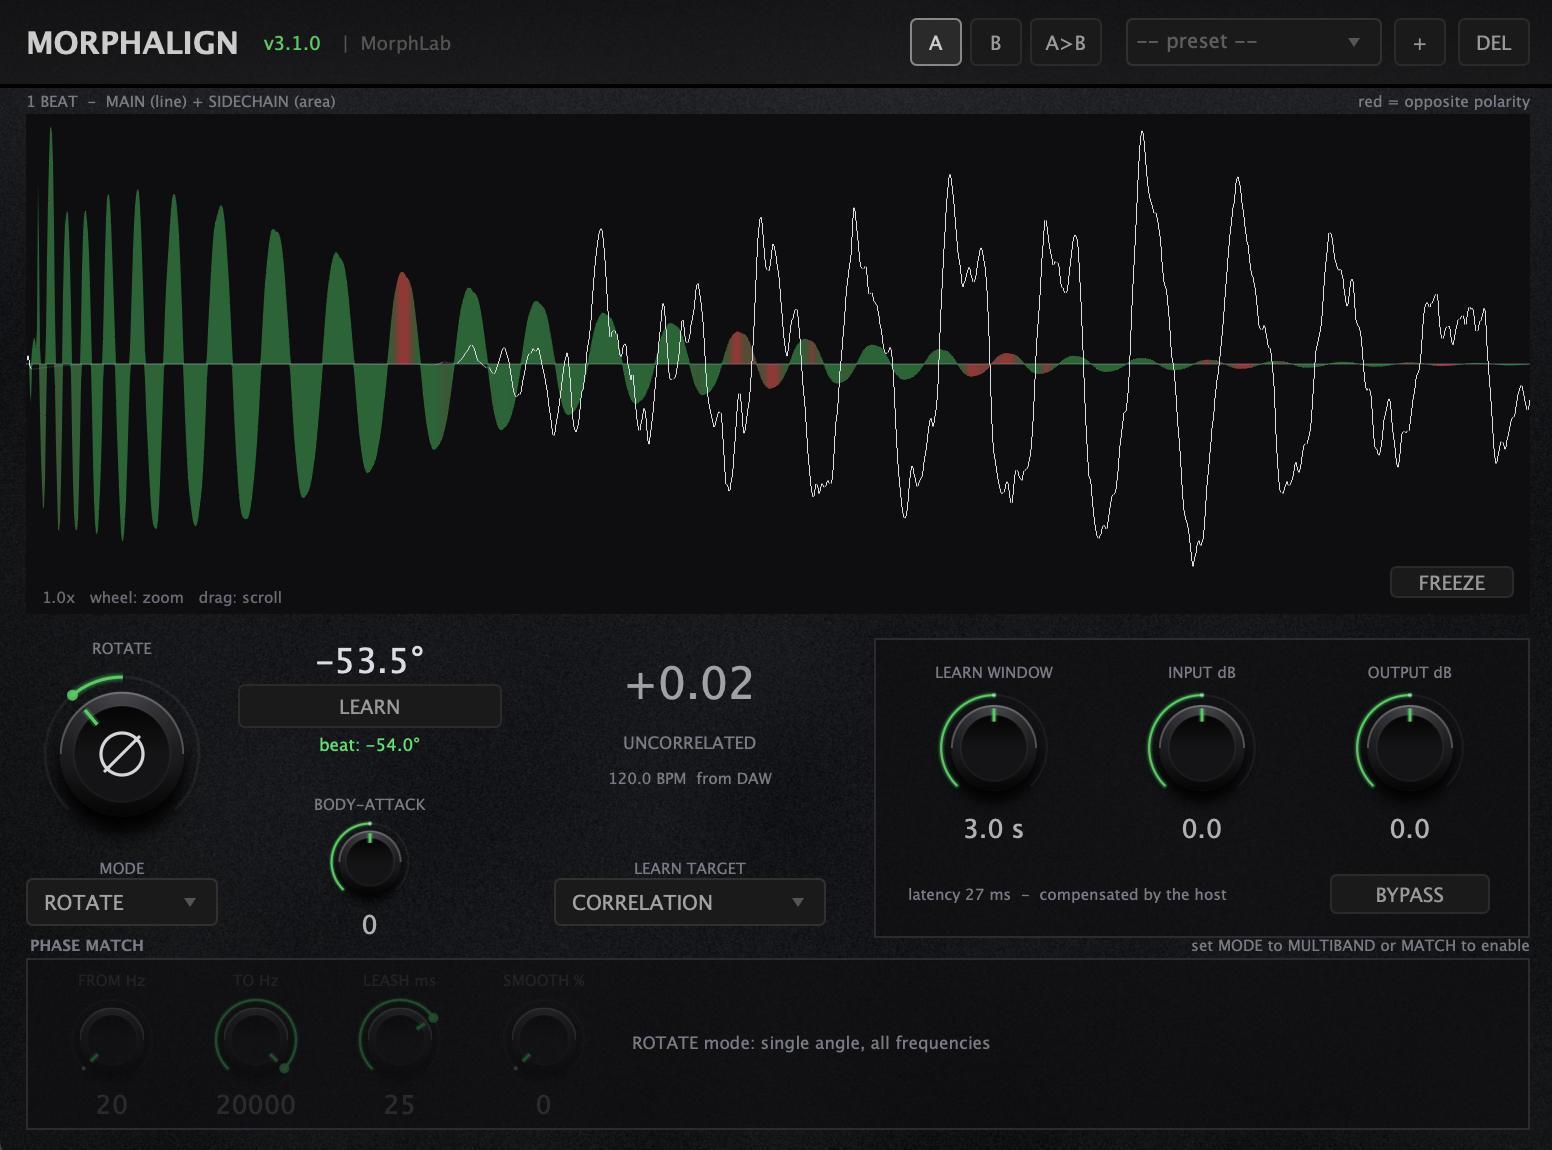
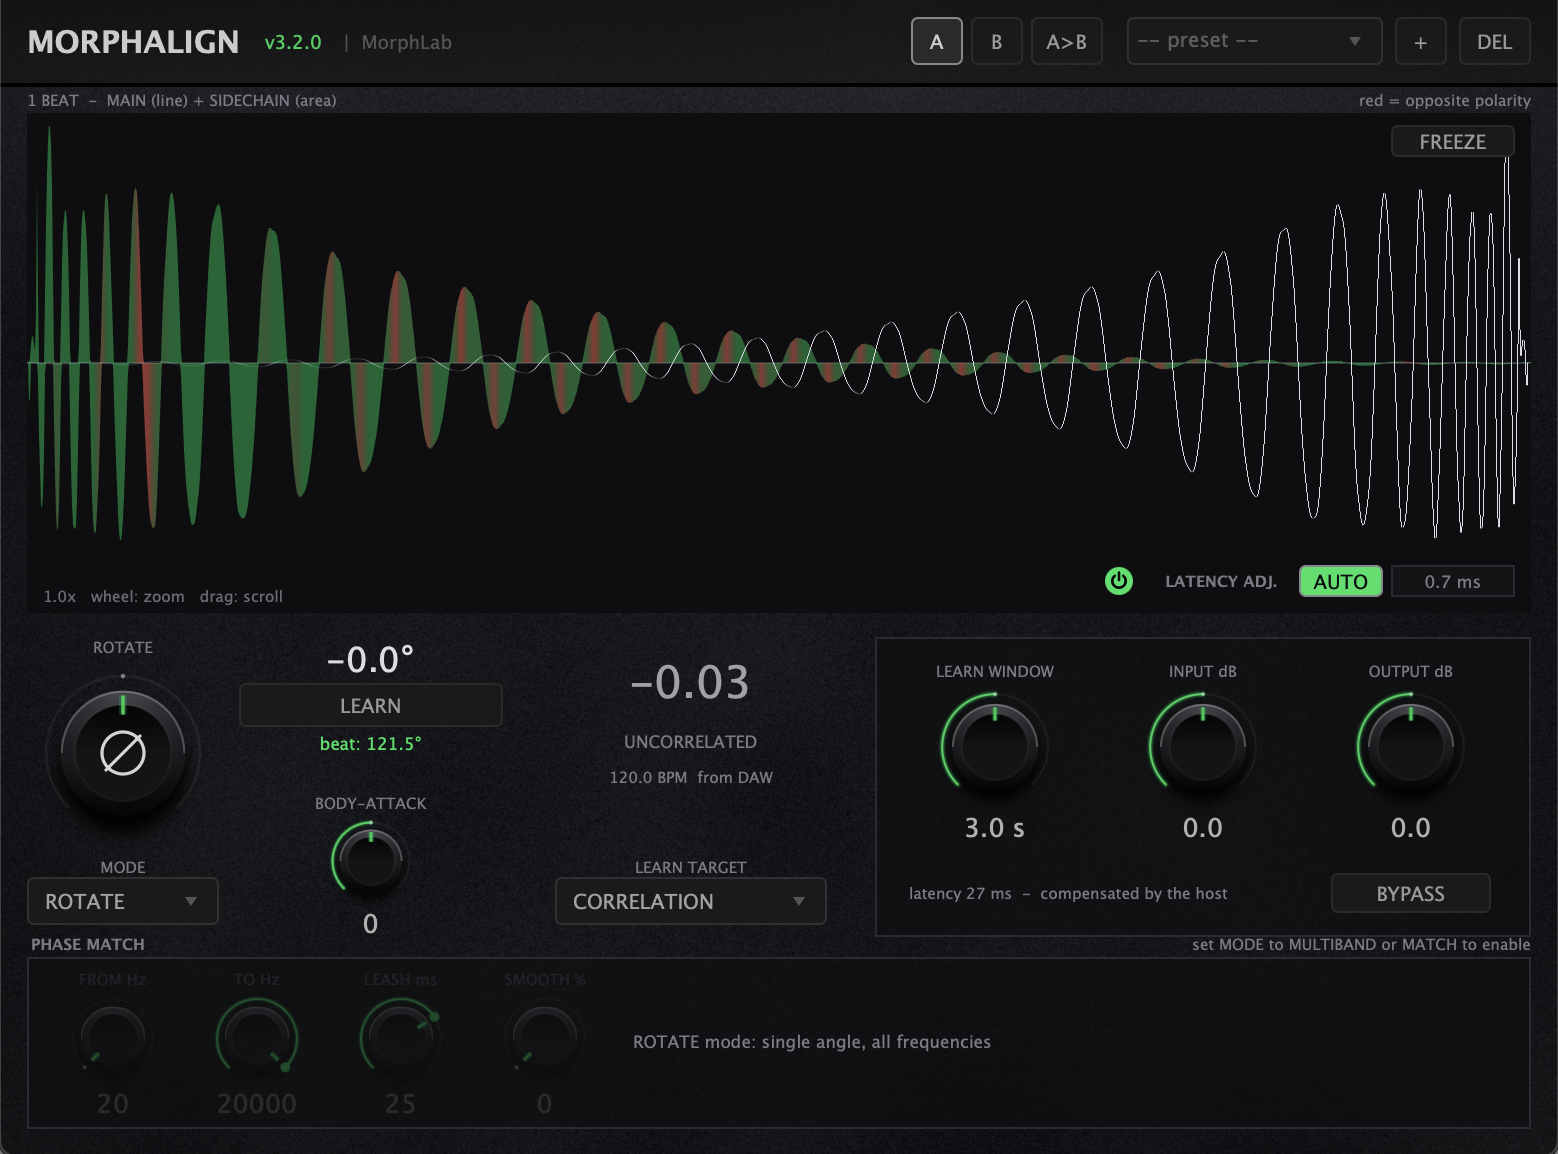
MorPhalign 3.2: LATENCY ADJ., screenshot nuovo
Claude-Session: https://claude.ai/code/session_01Etq1uoFG3gzwrCBAmuR7c3

diff --git a/index.html b/index.html
@@ -317,7 +317,7 @@ const PRODUCTS = [
   { id:"morphase", file:"MorPhase", name:"MorPhase", version:"2.1", group:"plugins",
     tag:"All-pass phase tool",
     text:"Rotates phase with first- or second-order all-pass filters without touching the magnitude. Align kicks, layers and multi-mic recordings, and watch the result on a beat-locked waveform." },
-  { id:"morphalign", file:"MorPhalign", name:"MorPhalign", version:"3.1", group:"plugins",
+  { id:"morphalign", file:"MorPhalign", name:"MorPhalign", version:"3.2", group:"plugins",
     tag:"Sidechain phase alignment",
     text:"Aligns one track to another through the sidechain, so kick and bass sum with the least cancellation. Four engines — Rotate, Multiband, Match and Match LF — on one big knob." },
   { id:"rx92", file:"RX92", name:"RX92", version:"2.2", group:"plugins",

diff --git a/CLAUDE.md b/CLAUDE.md
@@ -31,8 +31,8 @@ README.md                       short publishing notes
 | morphtransient | MorphTransient | 2.4 | plugins |
 | morphdynamic | MorphDynamic MB Transient | 2.7 | plugins |
 | morphase | MorPhase | 2.1 | plugins |
-| morphalign | MorPhalign | 3.1 | plugins |
-| rx92 | RX92 | 2.1 | plugins |
+| morphalign | MorPhalign | 3.2 | plugins |
+| rx92 | RX92 | 2.2 | plugins |
 | morphcontrolxl | MorphControl XL | 1.2 | tools (needs Novation Launch Control XL) |
 
 All are free. Each entry has `id, file, name, version, group, tag, text` (+ optional `formats`).
